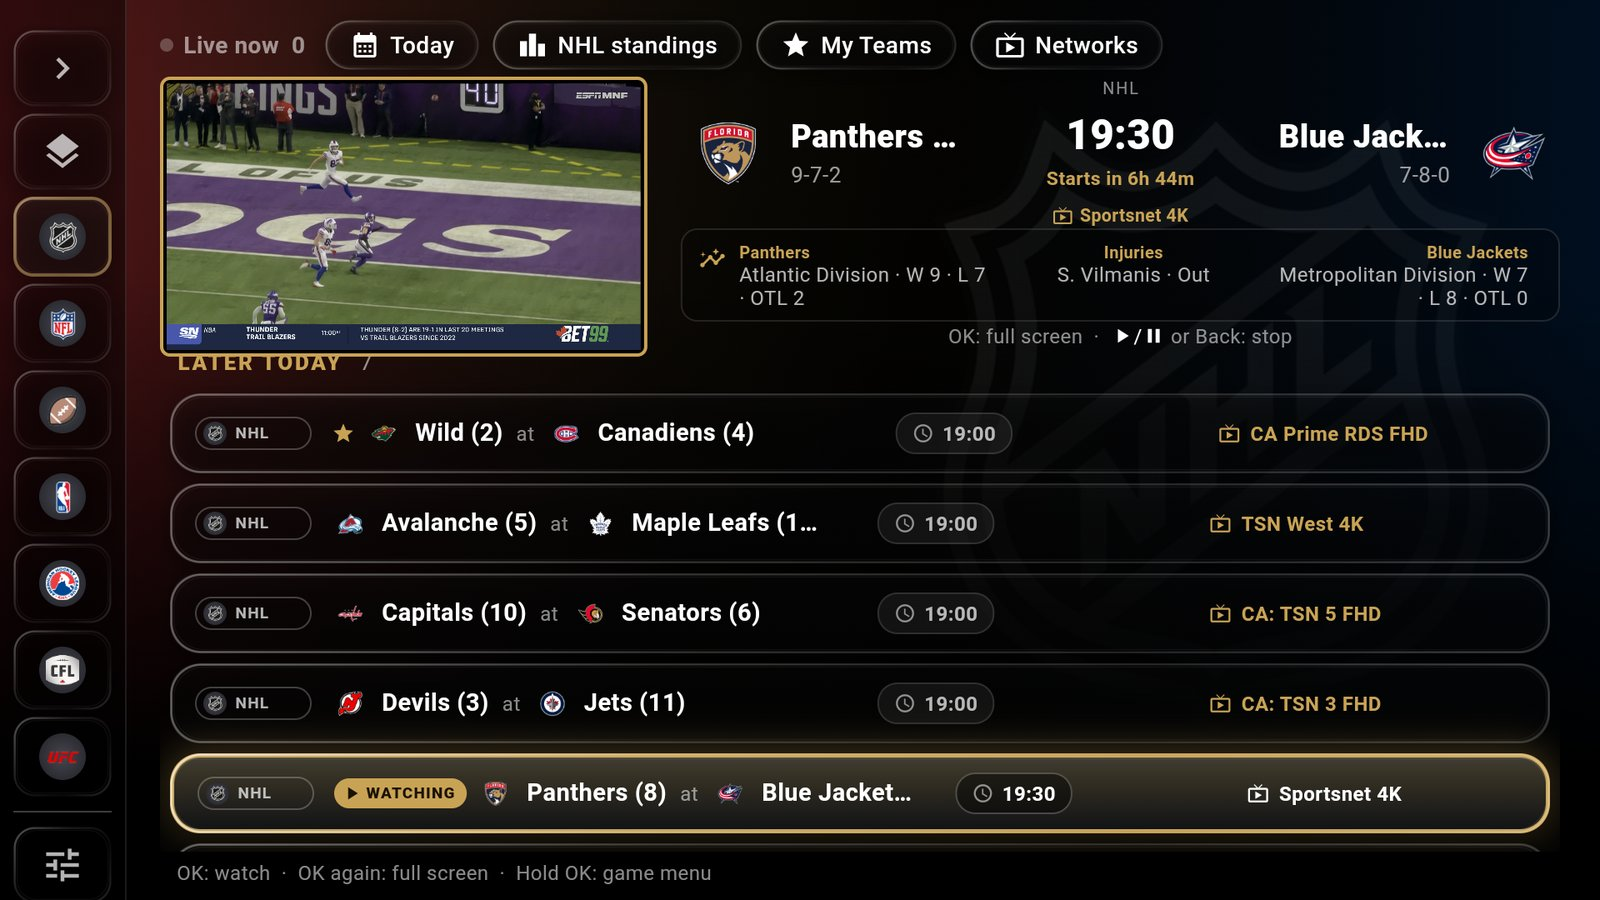
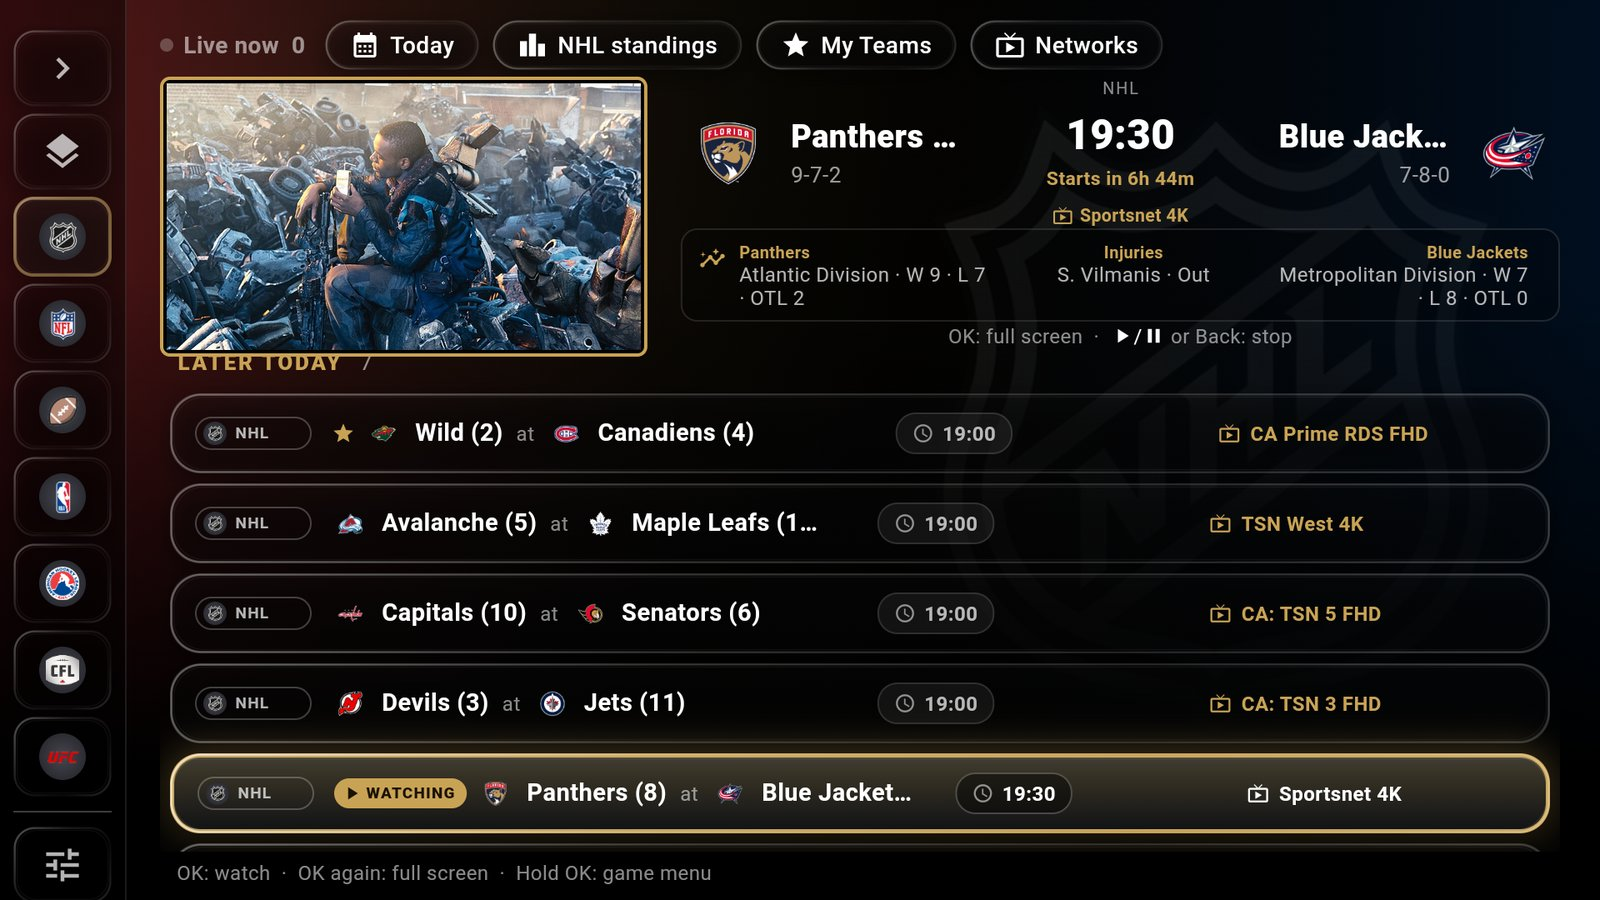
Site: Sports screenshots show a Blender open movie instead of the broadcast
Claude-Session: https://claude.ai/code/session_01Y8DwKE1FVweYdnwNmEZ3oz

Changed region(s): [[0.0938, 0.0933, 0.4062, 0.4044]]

diff --git a/docs/index.html b/docs/index.html
@@ -923,7 +923,7 @@ details .ans p + p{ margin-top:12px; }
         <li class="gal-item" role="group" aria-roledescription="slide" aria-label="10 of 27">
           <figure class="shot">
             <div class="shot-frame">
-              <img src="assets/shot-sports-guide.jpg" width="1600" height="900" loading="lazy" decoding="async" draggable="false"
+              <img src="assets/shot-sports-guide.jpg?v=2" width="1600" height="900" loading="lazy" decoding="async" draggable="false"
                    alt="Sports Trak's Guide layout: a game playing in a small player at the top left beside the matchup, start time, records and injuries, and below it the day's NHL games as a list with start times and the channel each one is on.">
             </div>
             <figcaption>Sports Trak's Guide layout — the day's games as a list, the channel beside each</figcaption>
@@ -977,7 +977,7 @@ details .ans p + p{ margin-top:12px; }
         <li class="gal-item" role="group" aria-roledescription="slide" aria-label="16 of 27">
           <figure class="shot">
             <div class="shot-frame">
-              <img src="assets/shot-sports-mode-feed.jpg" width="1600" height="900" loading="lazy" decoding="async" draggable="false"
+              <img src="assets/shot-sports-mode-feed.jpg?v=2" width="1600" height="900" loading="lazy" decoding="async" draggable="false"
                    alt="Sports Mode with a game playing: a feed of today's games on the left, My Teams first, and the matched channel playing large beside it, with hints for full screen and stats.">
             </div>
             <figcaption>Sports Mode — pick a game from the feed and it plays beside the list</figcaption>
